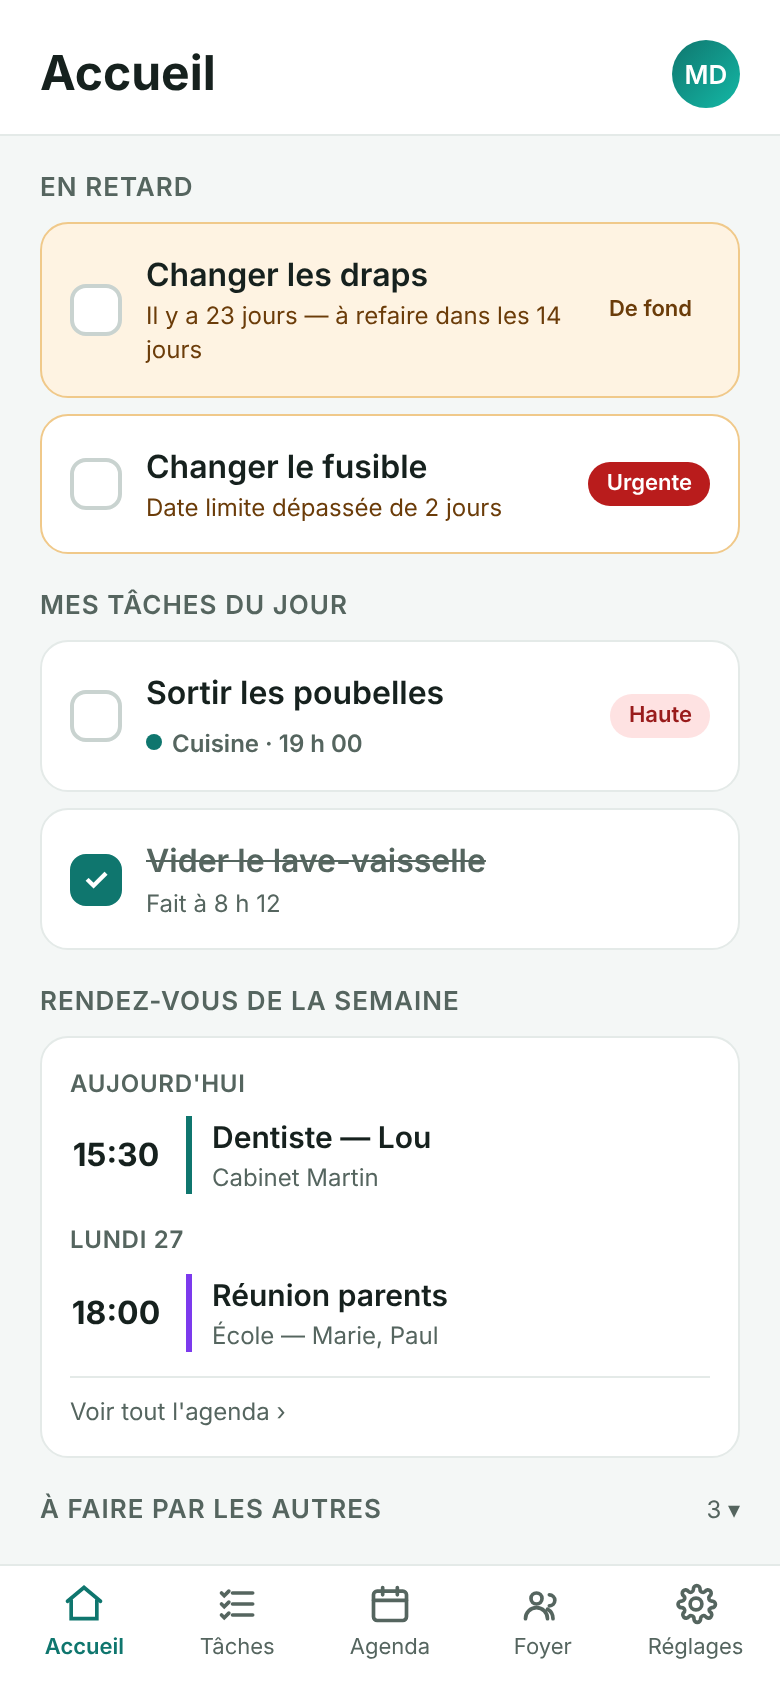
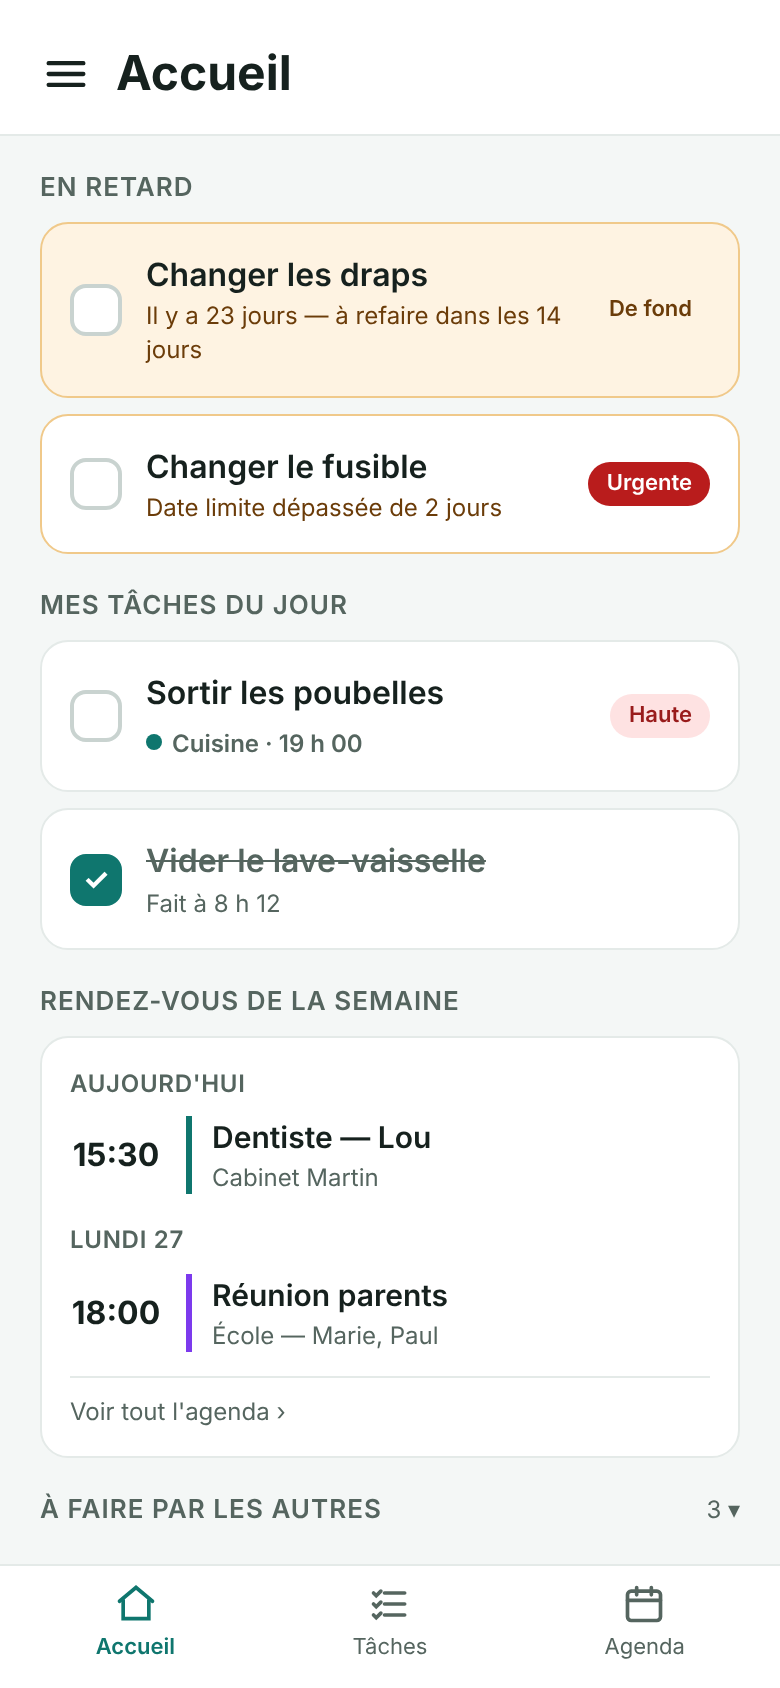
docs(maquettes): volet de navigation, barre du bas réduite à trois destinations
Claude-Session: https://claude.ai/code/session_01CwM8UZavZyFdh7jkANxEp5

diff --git a/docs/mockups/11-volet.html b/docs/mockups/11-volet.html
@@ -1,0 +1,127 @@
+<!doctype html>
+<html lang="fr"><head><meta charset="utf-8"><title>Volet de navigation</title><link rel="stylesheet" href="app.css"></head>
+<body style="position:relative">
+  <!-- Pas de sous-titre : « samedi 25 octobre · Maison des Dupont » répétait
+       ce que la barre d'état et l'écran Foyer disent déjà. -->
+  <header class="entete">
+    <!-- Le volet de navigation s'ouvre ici (ou en glissant depuis le bord
+         gauche) : Foyer, Réglages et le reste y vivent. -->
+    <div class="ligne">
+      <svg viewBox="0 0 24 24" width="26" height="26" fill="none" stroke="currentColor" stroke-width="2" stroke-linecap="round"><path d="M4 7h16M4 12h16M4 17h16"/></svg>
+      <div style="flex:1"><h1>Accueil</h1></div>
+    </div>
+  </header>
+
+  <div class="corps" style="gap:16px">
+    <div class="section">
+      <h2>En retard</h2>
+      <div class="carte" style="border-color:var(--alerte-trait);background:var(--alerte-fond)">
+        <div class="ligne">
+          <div class="case"></div>
+          <div style="flex:1;min-width:0">
+            <h3>Changer les draps</h3>
+            <p class="muet" style="color:var(--alerte-encre)">Il y a 23 jours — à refaire dans les 14 jours</p>
+          </div>
+          <span class="etiquette alerte">De fond</span>
+        </div>
+      </div>
+      <div class="carte" style="border-color:var(--alerte-trait)">
+        <div class="ligne">
+          <div class="case"></div>
+          <div style="flex:1;min-width:0">
+            <h3>Changer le fusible</h3>
+            <p class="muet" style="color:var(--alerte-encre)">Date limite dépassée de 2 jours</p>
+          </div>
+          <span class="etiquette urgente">Urgente</span>
+        </div>
+      </div>
+    </div>
+
+    <div class="section">
+      <h2>Mes tâches du jour</h2>
+      <div class="carte">
+        <div class="ligne">
+          <div class="case"></div>
+          <div style="flex:1;min-width:0">
+            <h3>Sortir les poubelles</h3>
+            <p class="groupe" style="margin-top:2px"><i style="background:#0f766e"></i>Cuisine · 19 h 00</p>
+          </div>
+          <span class="etiquette haute">Haute</span>
+        </div>
+      </div>
+      <div class="carte">
+        <div class="ligne">
+          <div class="case cochee">✓</div>
+          <div style="flex:1;min-width:0">
+            <h3 style="text-decoration:line-through;color:var(--gris)">Vider le lave-vaisselle</h3>
+            <p class="muet">Fait à 8 h 12</p>
+          </div>
+        </div>
+      </div>
+    </div>
+
+    <!-- La semaine, pas le seul jour : un rendez-vous de mercredi découvert
+         mercredi matin est découvert trop tard. -->
+    <div class="section">
+      <h2>Rendez-vous de la semaine</h2>
+      <div class="carte pile" style="gap:0">
+        <p class="jour">Aujourd'hui</p>
+        <div class="ligne" style="padding:8px 0">
+          <div style="flex:none;width:46px;text-align:center"><p style="font-weight:700">15:30</p></div>
+          <div style="flex:1;min-width:0;border-left:3px solid var(--accent);padding-left:10px">
+            <h3 style="font-size:15px">Dentiste — Lou</h3>
+            <p class="muet">Cabinet Martin</p>
+          </div>
+        </div>
+        <p class="jour" style="margin-top:6px">Lundi 27</p>
+        <div class="ligne" style="padding:8px 0">
+          <div style="flex:none;width:46px;text-align:center"><p style="font-weight:700">18:00</p></div>
+          <div style="flex:1;min-width:0;border-left:3px solid #7c3aed;padding-left:10px">
+            <h3 style="font-size:15px">Réunion parents</h3>
+            <p class="muet">École — Marie, Paul</p>
+          </div>
+        </div>
+        <p class="muet" style="padding-top:8px;border-top:1px solid var(--trait);margin-top:4px">Voir tout l'agenda ›</p>
+      </div>
+    </div>
+
+    <div class="section">
+      <div class="ligne" style="justify-content:space-between">
+        <h2>À faire par les autres</h2>
+        <span class="muet">3 ▾</span>
+      </div>
+    </div>
+  </div>
+
+<nav class="nav">
+  <div class="N1 actif"><svg viewBox="0 0 24 24" fill="none" stroke="currentColor" stroke-width="2" stroke-linecap="round"><path d="M3 10.5 12 3l9 7.5"/><path d="M5 10v10h14V10"/></svg>Accueil</div>
+  <div class="N2"><svg viewBox="0 0 24 24" fill="none" stroke="currentColor" stroke-width="2" stroke-linecap="round"><path d="M9 6h11M9 12h11M9 18h11"/><path d="m3 6 1.5 1.5L7 5M3 12l1.5 1.5L7 11M3 18l1.5 1.5L7 17"/></svg>Tâches</div>
+  <div class="N3"><svg viewBox="0 0 24 24" fill="none" stroke="currentColor" stroke-width="2" stroke-linecap="round"><rect x="3" y="5" width="18" height="16" rx="2"/><path d="M8 3v4M16 3v4M3 10h18"/></svg>Agenda</div>
+</nav>
+
+<style>
+  .voile { position:absolute; inset:0; background:rgba(16,23,21,.45); }
+  .volet { position:absolute; top:0; bottom:0; left:0; width:304px; background:var(--surface);
+           border-radius:0 18px 18px 0; display:flex; flex-direction:column; padding:20px 12px; gap:4px; }
+  .volet .moi { padding:8px 12px 18px; border-bottom:1px solid var(--trait); margin-bottom:10px; }
+  .volet .entree { display:flex; align-items:center; gap:14px; min-height:52px; padding:0 14px;
+                    border-radius:999px; font-size:15px; font-weight:500; color:var(--encre-douce); }
+  .volet .entree.actif { background:var(--accent-doux); color:var(--accent); font-weight:600; }
+  .volet .bas { margin-top:auto; border-top:1px solid var(--trait); padding-top:10px; }
+</style>
+<div class="voile"></div>
+<aside class="volet">
+  <div class="moi">
+    <span class="photo grande" style="width:56px;height:56px;font-size:20px;background:linear-gradient(135deg,#0f766e,#14b8a6)">MD</span>
+    <h3 style="margin-top:12px">Marie Dupont</h3>
+    <p class="muet">Maison des Dupont</p>
+  </div>
+  <div class="entree"><svg viewBox="0 0 24 24" width="22" height="22" fill="none" stroke="currentColor" stroke-width="2" stroke-linecap="round"><circle cx="9" cy="9" r="3"/><path d="M3 20a6 6 0 0 1 12 0M16 7a3 3 0 0 1 0 6M18 20a6 6 0 0 0-3-5.2"/></svg>Foyer</div>
+  <div class="entree"><svg viewBox="0 0 24 24" width="22" height="22" fill="none" stroke="currentColor" stroke-width="2" stroke-linecap="round"><circle cx="12" cy="8" r="4"/><path d="M4 21a8 8 0 0 1 16 0"/></svg>Mon profil</div>
+  <div class="entree"><svg viewBox="0 0 24 24" width="22" height="22" fill="none" stroke="currentColor" stroke-width="2" stroke-linecap="round"><rect x="3" y="4" width="18" height="7" rx="2"/><rect x="3" y="13" width="18" height="7" rx="2"/><path d="M7 7.5h.01M7 16.5h.01"/></svg>Serveur<span class="etiquette neutre" style="margin-left:auto">Non lié</span></div>
+  <div class="entree"><svg viewBox="0 0 24 24" width="22" height="22" fill="none" stroke="currentColor" stroke-width="2" stroke-linecap="round"><circle cx="12" cy="12" r="3.2"/><path d="M12 2v3M12 19v3M2 12h3M19 12h3M4.9 4.9l2.1 2.1M17 17l2.1 2.1M4.9 19.1 7 17M17 7l2.1-2.1"/></svg>Réglages</div>
+  <div class="bas">
+    <div class="entree"><svg viewBox="0 0 24 24" width="22" height="22" fill="none" stroke="currentColor" stroke-width="2" stroke-linecap="round"><circle cx="12" cy="12" r="9"/><path d="M12 11v6M12 7.5h.01"/></svg>À propos</div>
+  </div>
+</aside>
+</body></html>

diff --git a/docs/mockups/1-accueil.html b/docs/mockups/1-accueil.html
@@ -4,9 +4,11 @@
   <!-- Pas de sous-titre : « samedi 25 octobre · Maison des Dupont » répétait
        ce que la barre d'état et l'écran Foyer disent déjà. -->
   <header class="entete">
+    <!-- Le volet de navigation s'ouvre ici (ou en glissant depuis le bord
+         gauche) : Foyer, Réglages et le reste y vivent. -->
     <div class="ligne">
+      <svg viewBox="0 0 24 24" width="26" height="26" fill="none" stroke="currentColor" stroke-width="2" stroke-linecap="round"><path d="M4 7h16M4 12h16M4 17h16"/></svg>
       <div style="flex:1"><h1>Accueil</h1></div>
-      <span class="photo" style="background:linear-gradient(135deg,#0f766e,#14b8a6)">MD</span>
     </div>
   </header>
 
@@ -95,7 +97,5 @@
   <div class="N1 actif"><svg viewBox="0 0 24 24" fill="none" stroke="currentColor" stroke-width="2" stroke-linecap="round"><path d="M3 10.5 12 3l9 7.5"/><path d="M5 10v10h14V10"/></svg>Accueil</div>
   <div class="N2"><svg viewBox="0 0 24 24" fill="none" stroke="currentColor" stroke-width="2" stroke-linecap="round"><path d="M9 6h11M9 12h11M9 18h11"/><path d="m3 6 1.5 1.5L7 5M3 12l1.5 1.5L7 11M3 18l1.5 1.5L7 17"/></svg>Tâches</div>
   <div class="N3"><svg viewBox="0 0 24 24" fill="none" stroke="currentColor" stroke-width="2" stroke-linecap="round"><rect x="3" y="5" width="18" height="16" rx="2"/><path d="M8 3v4M16 3v4M3 10h18"/></svg>Agenda</div>
-  <div class="N4"><svg viewBox="0 0 24 24" fill="none" stroke="currentColor" stroke-width="2" stroke-linecap="round"><circle cx="9" cy="9" r="3"/><path d="M3 20a6 6 0 0 1 12 0M16 7a3 3 0 0 1 0 6M18 20a6 6 0 0 0-3-5.2"/></svg>Foyer</div>
-  <div class="N5"><svg viewBox="0 0 24 24" fill="none" stroke="currentColor" stroke-width="2" stroke-linecap="round"><circle cx="12" cy="12" r="3.2"/><path d="M19.4 14.5a1.6 1.6 0 0 0 .3 1.8l.1.1a1.8 1.8 0 1 1-2.5 2.5l-.1-.1a1.6 1.6 0 0 0-2.7 1.1v.3a1.8 1.8 0 1 1-3.6 0v-.2a1.6 1.6 0 0 0-2.7-1.2l-.1.1a1.8 1.8 0 1 1-2.5-2.5l.1-.1A1.6 1.6 0 0 0 4 14a1.8 1.8 0 0 1 0-3.6h.2A1.6 1.6 0 0 0 5.4 7.7l-.1-.1a1.8 1.8 0 1 1 2.5-2.5l.1.1a1.6 1.6 0 0 0 2.7-1.1V3.8a1.8 1.8 0 1 1 3.6 0V4a1.6 1.6 0 0 0 2.7 1.2l.1-.1a1.8 1.8 0 1 1 2.5 2.5l-.1.1a1.6 1.6 0 0 0 1.1 2.7h.3a1.8 1.8 0 1 1 0 3.6h-.2a1.6 1.6 0 0 0-1.2 1z"/></svg>Réglages</div>
 </nav>
 </body></html>
